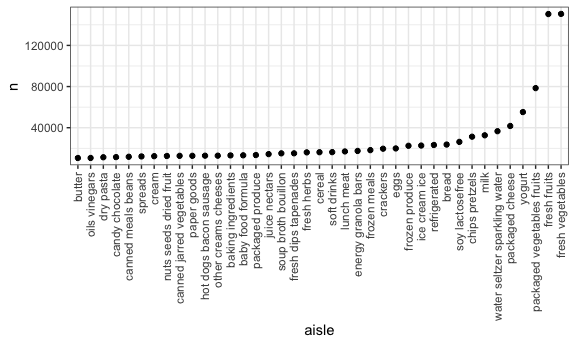
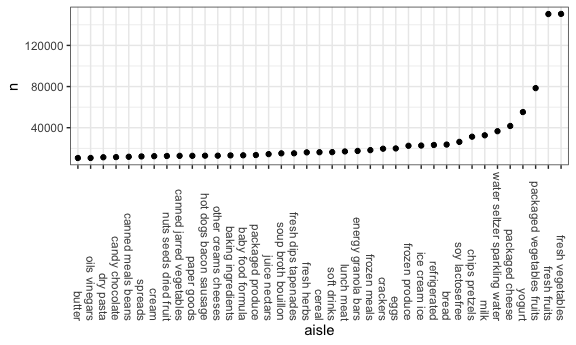
Prob 1 - cleanup and descriptions

Changed region(s): [[0.125, 0.4928, 1.0, 0.9275]]

diff --git a/p8105_hw3_ebb2166.md b/p8105_hw3_ebb2166.md
@@ -5,7 +5,7 @@ E. Brennan Bollman
 
 ## Problem 1
 
-##### Step 1: describe the instacart dataset.
+##### Step 1: Describe the instacart dataset.
 
 ``` r
 data("instacart")
@@ -30,13 +30,17 @@ instacart
     ## #   aisle_id <int>, department_id <int>, aisle <chr>, department <chr>
 
 This dataset contains 1384617 rows of individual product orders from
-Instacart and 15 columns of variables such as: user ID, product ID, day
-and hour of the week at which the order was placed, as well as product
-names and the departments / aisles in which they can be found. The
-dataset contains information from 131209 unique users who ordered 39123
-products.
+Instacart and 15 columns of variables such as user ID, product ID, and
+day and hour of the week at which the order was placed. More detailed
+information about the individual items is also available: product names,
+whether the product had been ordered previously, and the departments /
+aisles in which a product can be found. The dataset contains information
+from 131209 unique users who ordered 39123 distinct products.
 
-Number of aisles and which have most items ordered from.
+##### Step 2: Identify the most in-demand aisles.
+
+Count the number of aisles, and identify which aisles have most items
+ordered from them.
 
 ``` r
 instacart %>% 
@@ -59,8 +63,20 @@ instacart %>%
     ## 10 bread                          23635
     ## # … with 124 more rows
 
-Plot that shows the number of items ordered in each aisle, limiting this
-to aisles with more than 10000 items ordered, arranging sensibly.
+The dataset contains 134 distinct aisles. “Fresh vegetables” and “fresh
+fruits” are ordered from most frequently, with nearly double the number
+of item orders than the third highest in-demand aisle, “packaged
+vegetables fruits”—which are then followed by “yogurt” and “packaged
+cheese.”
+
+##### Step 3: Plot aisle popularity.
+
+Create a plot that shows the number of items ordered in each aisle,
+limiting this to aisles with more than 10000 items ordered, and
+arranging plot sensibly. Need to first count by aisle, then filter by
+item count \>10,000. Should rotate x-axis labels so it is readable.
+Finally, re-order aisle according to n, from the aisle with the lowest
+number of items ordered to that with the highest ordered.
 
 ``` r
 instacart %>% 
@@ -71,17 +87,23 @@ instacart %>%
     aisle = fct_reorder(aisle, n)
   ) %>% 
   ggplot(aes(x = aisle, y = n)) +
-  geom_point() +
-  theme(axis.text.x = element_text(angle = 90, vjust = 0.5, hjust = 1))
+  geom_point() + 
+  theme(axis.text.x = element_text(angle = 270, vjust = 0.5, hjust = 1))
 ```
 
 <img src="p8105_hw3_ebb2166_files/figure-gfm/unnamed-chunk-3-1.png" width="90%" />
 
+This plot demonstrates again that vegetables and fruits are much more
+popular than other aisles\!
+
+##### Step 4: Demonstrate the most popular items in select aisles.
+
 Make a table showing the three most popular items in each of the aisles
 “baking ingredients”, “dog food care”, and “packaged vegetables
 fruits”. Include the number of times each item is ordered in your
-table. Step 1 of this is to filter these aisles and count most popular
-items in these aisles. Step 2: rank within each of the 3 aisles.
+table. Will filter by the above aisles, count the most popular aisles in
+each. Then will rank each of the 3 aisles, for only the top 3 n’s, and
+arrange them most popular to least popular for each aisle.
 
 ``` r
 instacart %>% 
@@ -106,11 +128,14 @@ instacart %>%
 | packaged vegetables fruits | Organic Raspberries                           | 5546 |    2 |
 | packaged vegetables fruits | Organic Blueberries                           | 4966 |    3 |
 
-Make a table showing the mean hour of the day at which Pink Lady Apples
-and Coffee Ice Cream are ordered on each day of the week; format this
-table for human readers (i.e. produce a 2 x 7 table). Step 1: look only
-at those items. Step 2: summarize to find mean hour of day at which each
-item ordered. Step 3: find that mean for each day of week
+##### Step 5: Demonstrate mean hour of day for select items ordered, on each day of the week.
+
+Make a table showing the mean hour of the day at which “Pink Lady
+Apples” and “Coffee Ice Cream” are ordered on each day of the week;
+format this table for human readers (i.e. produce a 2 x 7 table). First,
+filter only these items. Then group by the products in question and day
+of week, and summarize to find the mean hour of the day at which each
+item is ordered. Finally, reformat table for easier visualization.
 
 ``` r
 instacart %>% 
@@ -120,17 +145,19 @@ instacart %>%
   pivot_wider(
     names_from = order_dow,
     values_from = mean_hour
-  )
+  ) %>% 
+  knitr::kable()
 ```
 
     ## `summarise()` regrouping output by 'product_name' (override with `.groups` argument)
 
-    ## # A tibble: 2 x 8
-    ## # Groups:   product_name [2]
-    ##   product_name       `0`   `1`   `2`   `3`   `4`   `5`   `6`
-    ##   <chr>            <dbl> <dbl> <dbl> <dbl> <dbl> <dbl> <dbl>
-    ## 1 Coffee Ice Cream  13.8  14.3  15.4  15.3  15.2  12.3  13.8
-    ## 2 Pink Lady Apples  13.4  11.4  11.7  14.2  11.6  12.8  11.9
+| product\_name    |        0 |        1 |        2 |        3 |        4 |        5 |        6 |
+| :--------------- | -------: | -------: | -------: | -------: | -------: | -------: | -------: |
+| Coffee Ice Cream | 13.77419 | 14.31579 | 15.38095 | 15.31818 | 15.21739 | 12.26316 | 13.83333 |
+| Pink Lady Apples | 13.44118 | 11.36000 | 11.70213 | 14.25000 | 11.55172 | 12.78431 | 11.93750 |
+
+For every day of the week, coffee ice cream is ordered later in the day
+than apples. Dessert is important.
 
 ## Problem 2
 
